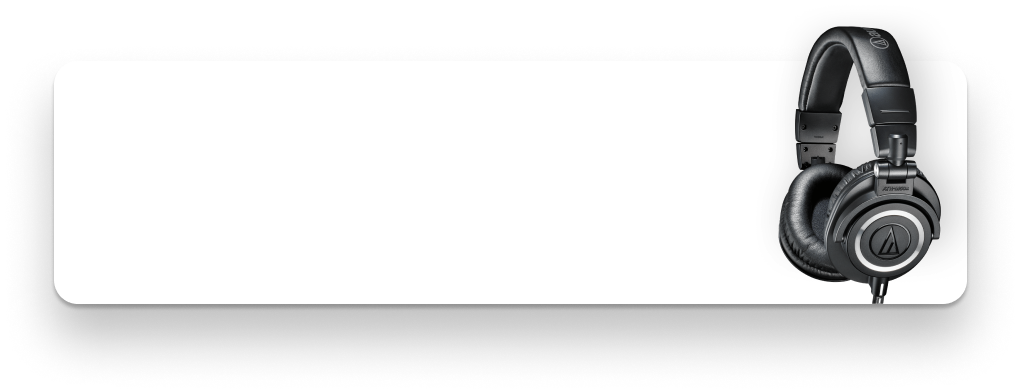
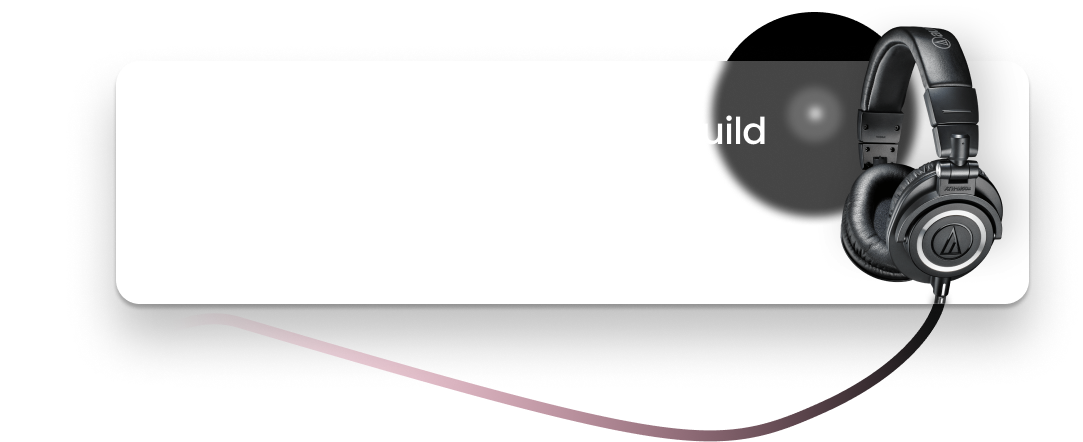
WIP

Changed region(s): [[0.0304, 0.0, 0.9716, 1.0]]

diff --git a/index.html b/index.html
@@ -89,8 +89,12 @@
           <div id="content_logo">
             <div id="content_bg_logo"></div>
             <div id="contentSplash_logo">
-              <p id="artist_name_logo">EditTrax</p>
-              <p id="nft_name_logo">.NFT</p>                 
+
+              <div class="h-auto w-auto bg-center" style="background-size: contain; background-repeat: no-repeat; height:282px; width:80vw; max-width:500px; top:0px; background-image: url(./assets/img/logo_circ_trans.png);"></div>
+
+
+              <!-- <p id="artist_name_logo">EditTrax</p>
+              <p id="nft_name_logo">.NFT</p>                  -->
               <div class="viewport_logo"></div>          
             </div>
           </div>

diff --git a/style.css b/style.css
@@ -412,9 +412,9 @@ input.repeat {
 
 #contentSplash_logo {
   background-color: rgb(0, 0, 0);
-  max-width:50%;
+  /* max-width:50%; */
   min-height:50%;
-  width:200px;
+  width:380px;
   height:200px;
   z-index: 20;
   position:absolute;
